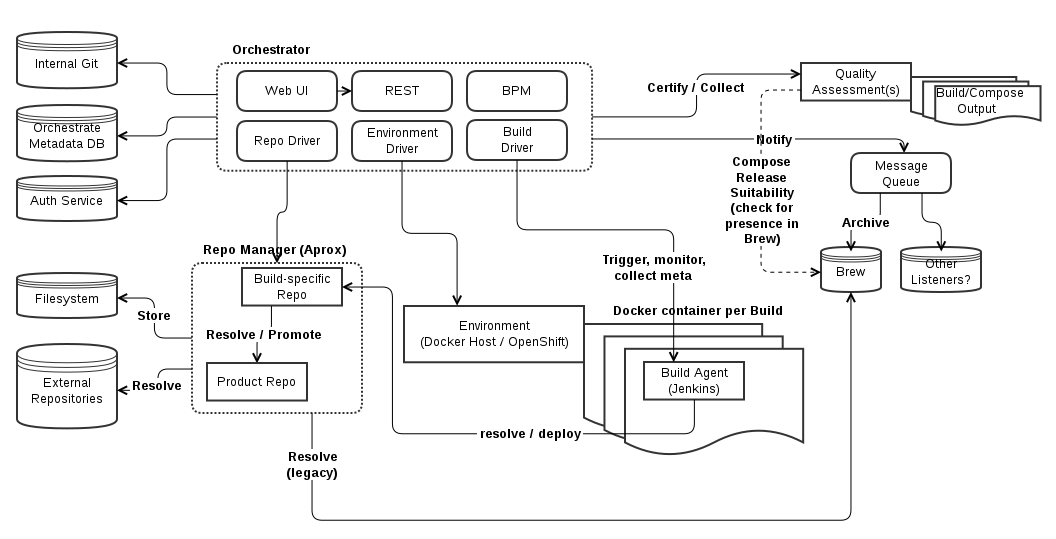
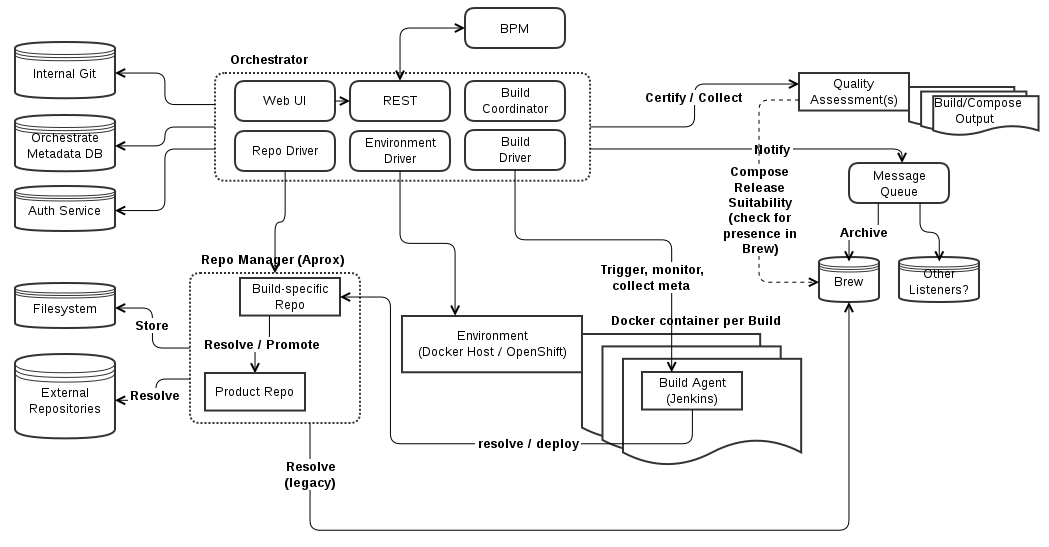
Tidy up.

diff --git a/demo-v0.4/README.md b/demo-v0.4/README.md
@@ -26,23 +26,24 @@ Agenda
 
 ### - Project structure
 
+### - Project structure - maven modules
+
 ### - How to build pnc and try it out
 
 ### - Open decissions
 
 ---
 
-Overview
-========
-- open source on github
+Overview and motivation
+=======================
+- Open source on github
     - [https://github.com/project-ncl/pnc](https://github.com/project-ncl/pnc)
-- analyze community projects
-    - track all maven dependencies
-    - compare which artifacts are already in the system
-    - track also non mvn requests
-- re-use artifacts from other project
-- do one build only
-    - versions
+- Analyze community projects
+    - Track all maven dependencies
+    - Compare which artifacts are already in the system
+    - Track also non mvn requests
+- Re-use artifacts from other project
+- Do one build only
 
 ---
 
@@ -57,77 +58,82 @@ Main components
 
 Demo
 ====
-- how ot configure a build
-- trigger the build
-- view collected results
+- How to configure a build
+- Trigger the build
+- View collected results
 
 ---
 
 Modularity and Extendibility
 ============================
-- swagger
-- build agents
-- repository manager
-- BPM
+- External
+    - REST
+    - Swagger (pnc-web/apidocs/)
+    - BPM
+- Internal
+    - Build environment SPI
+    - Repository manager SPI
+    - Build driver SPI
+
+---
+
+Project structure - components
+==============================
+- PNC orchestrator (ear deployment)
+- Aprox - maven repository manager
+- Docker host / OpenShift - environment
+    - Builder images with installed build agent and other tools like mvn, git
+- JBPM server - build is a task in the process
+- KeyCloak server 
 
 [PNC structure diagram](./images/pnc-detailed-diagram.png)
 
 ---
 
-Project structure
-=================
-- PNC orchestrator
-- Aprox
-- Docker host
-- JBPM server
-- KeyCloak server
-
----
-
 Project structure - maven modules
 =================================
-- UI
+- UI (AngularJS)
 - REST / Swagger api doc
-- datastore
-- build-coordinator
-- repository manager drivers
-    - *aprox build driver*, nodejs registry, docker registry
-- environment drivers
-    - *Docer host* / swarm, OpenShift, local
-- build drivers
-    - *jenkins build driver*, pnc build agent driver, local?
-- auth
-- integration tests
+- Datastore
+- Build-coordinator
+- repository manager driver SPI
+    - *Aprox repository driver*, Nodejs registry, Docker registry
+- Environment driver SPI
+    - *Docer host / swarm env driver*, OpenShift, local
+- Build driver SPI
+    - *Jenkins build driver*, pnc build agent driver, local?
+- Auth
+- Integration tests
 
 ---
 
 How to build pnc and try it out
 ===============================
-- clone github repo http://github.com/project-ncl/pnc/
+- Clone github repo http://github.com/project-ncl/pnc/
 - mvn clean install
     - produces an ear package to deploy to EAP
-- set-up remote services
-    - Docker host
+- Set-up remote services
+    - Docker host with required images
     - Aprox repository manager
-- configure settings
+- Configure settings
     - or use env variables to "fill" the default file
-- remote tests disabled by default - see README
-    - currently you need all remote components up and running
-    - settings vs. env variables
-- authentication is disabled by default
+- Remote tests disabled by default - see README
+    - Currently you need all remote components up and running
+    - Settings vs. env variables
+- Authentication is disabled by default
     - requires KeyCloak server
 
 ---
 
-Open decissions
-===============
+Open discussions
+================
 - pom-manipulation and versioning
 - OpenShift deployment
-- persistent coordinator state
+- Persistent coordinator state
 - JBPM and OAuth
 - JBPM and UI integration
-- new ligh-weight Build Agent replacing Jenkins
-- Brew connection
+- New light-weight Build Agent replacing Jenkins
+- Brew connection and reliable storage
 
 
 ---
